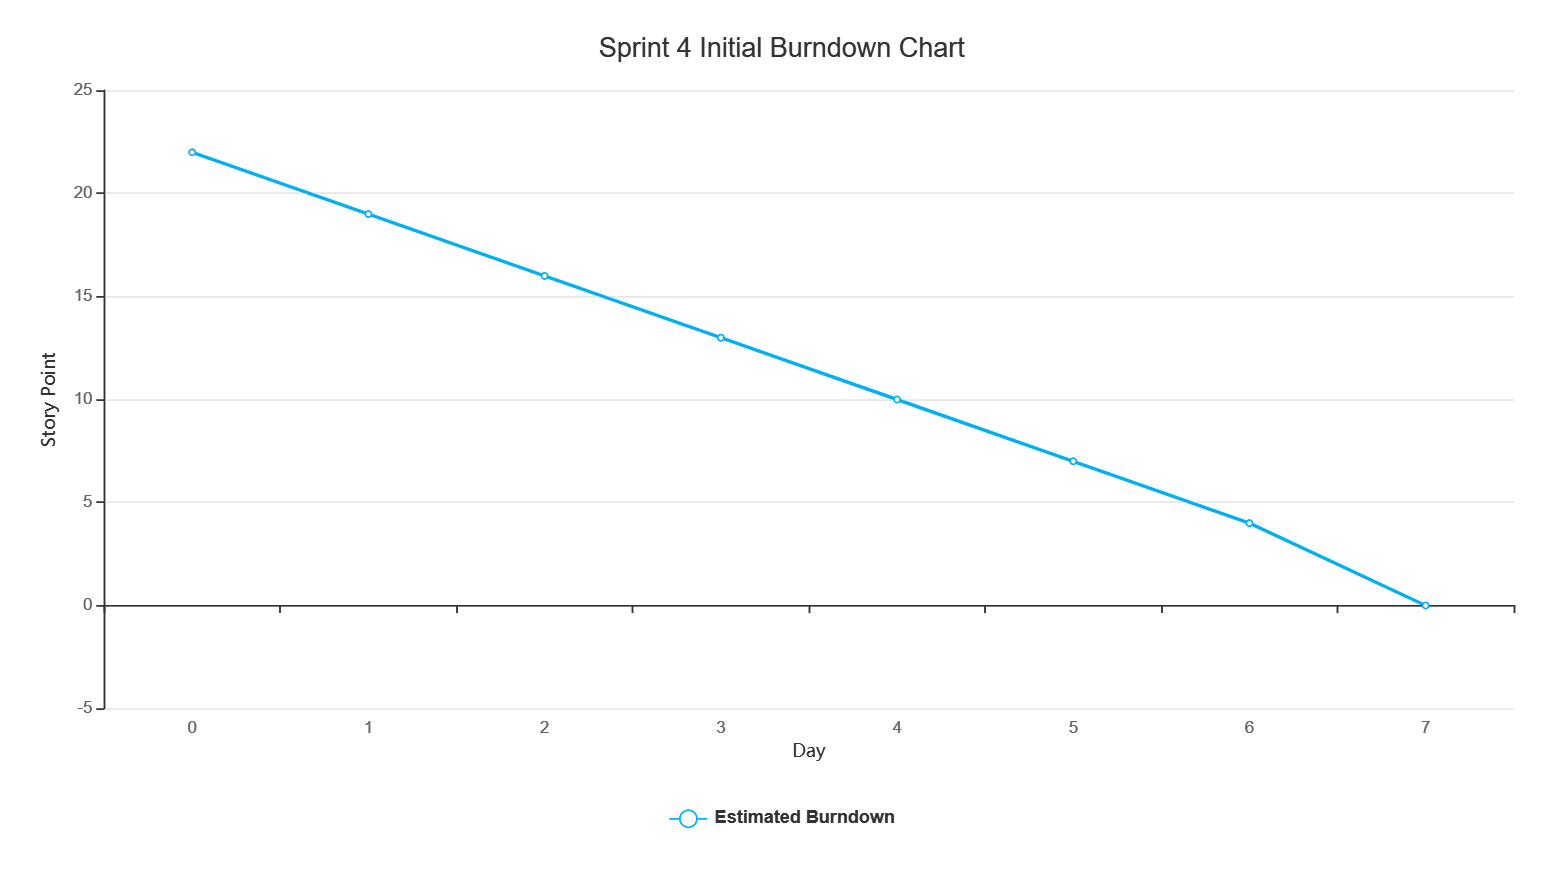
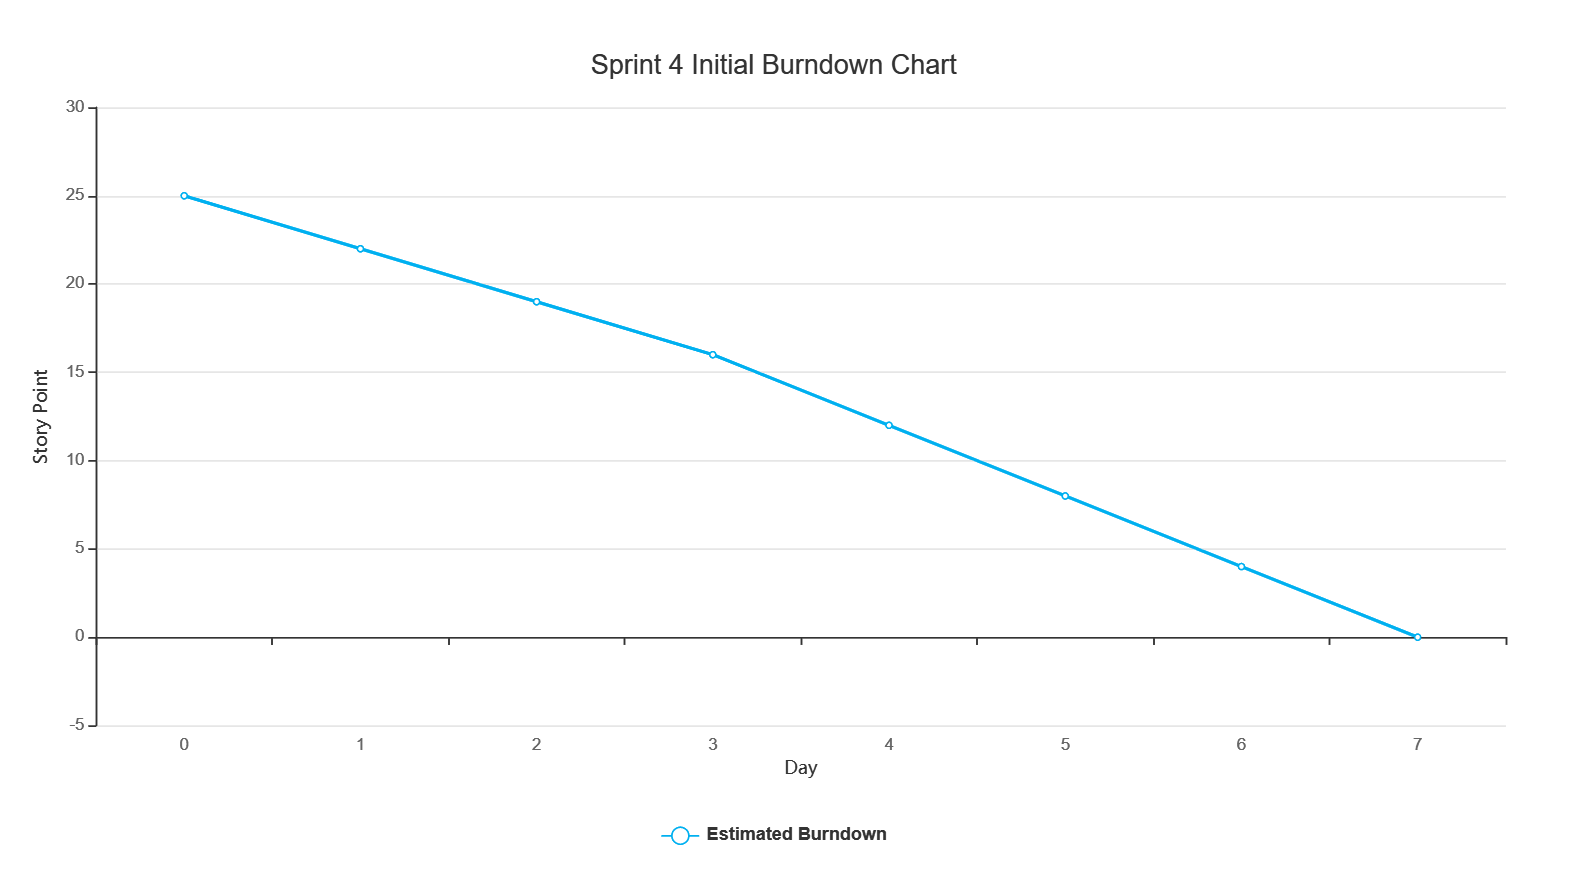
added sprint 4 plan snapshots

diff --git a/teamWebsite/public/deliverables/d4/secondReleaseReflection.html b/teamWebsite/public/deliverables/d4/secondReleaseReflection.html
@@ -286,6 +286,14 @@
                             src="/assets/d4/img/d4_sprint4_final_taskboard.png"
                             class="sprint-plan-img mb2"
                         />
+						<img
+                            src="/assets/d4/img/Sprint4_Final_Task_Board.png"
+                            class="sprint-plan-img mb2"
+                        />
+						<img
+                            src="/assets/d4/img/Sprint4_Final_Burndown.png"
+                            class="sprint-plan-img mb2"
+                        />
                     </div>
                 </div>
             </div>
@@ -344,13 +352,13 @@
 								<ul>
 									<li> Sprint 2: 46 story points
 									<li> Sprint 3: 35 story points
-									<li> Sprint 4: 22 story points
+									<li> Sprint 4: 25 story points
 								</ul>
 							<strong>Actual Project Velocities</strong>
 								<ul>
 									<li> Sprint 2: 46 story points
 									<li> Sprint 3: 35 story points
-									<li> Sprint 4: 22 story points
+									<li> Sprint 4: 25 story points
 								</ul>
 						</div>
                     </div>
